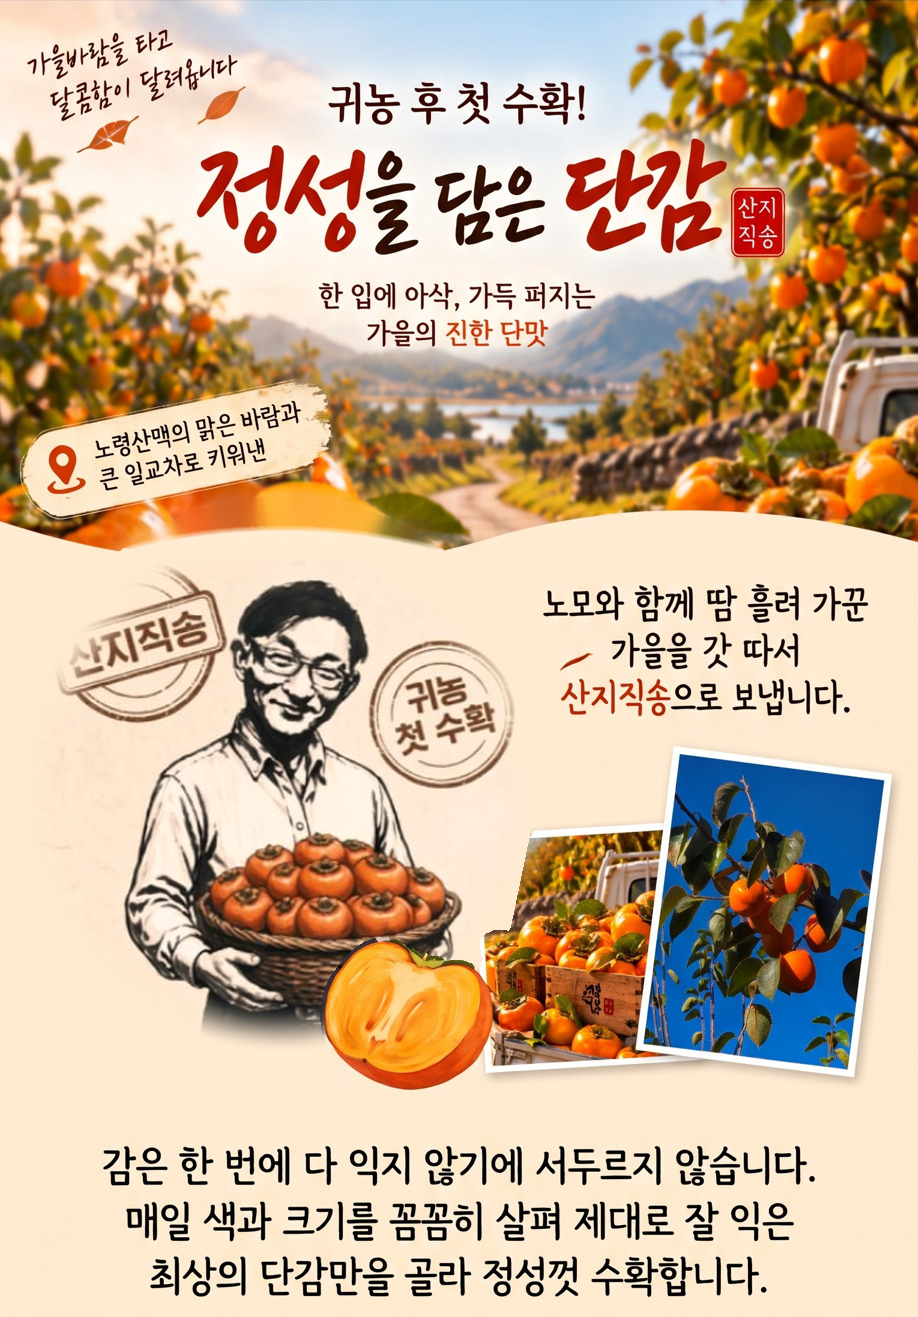
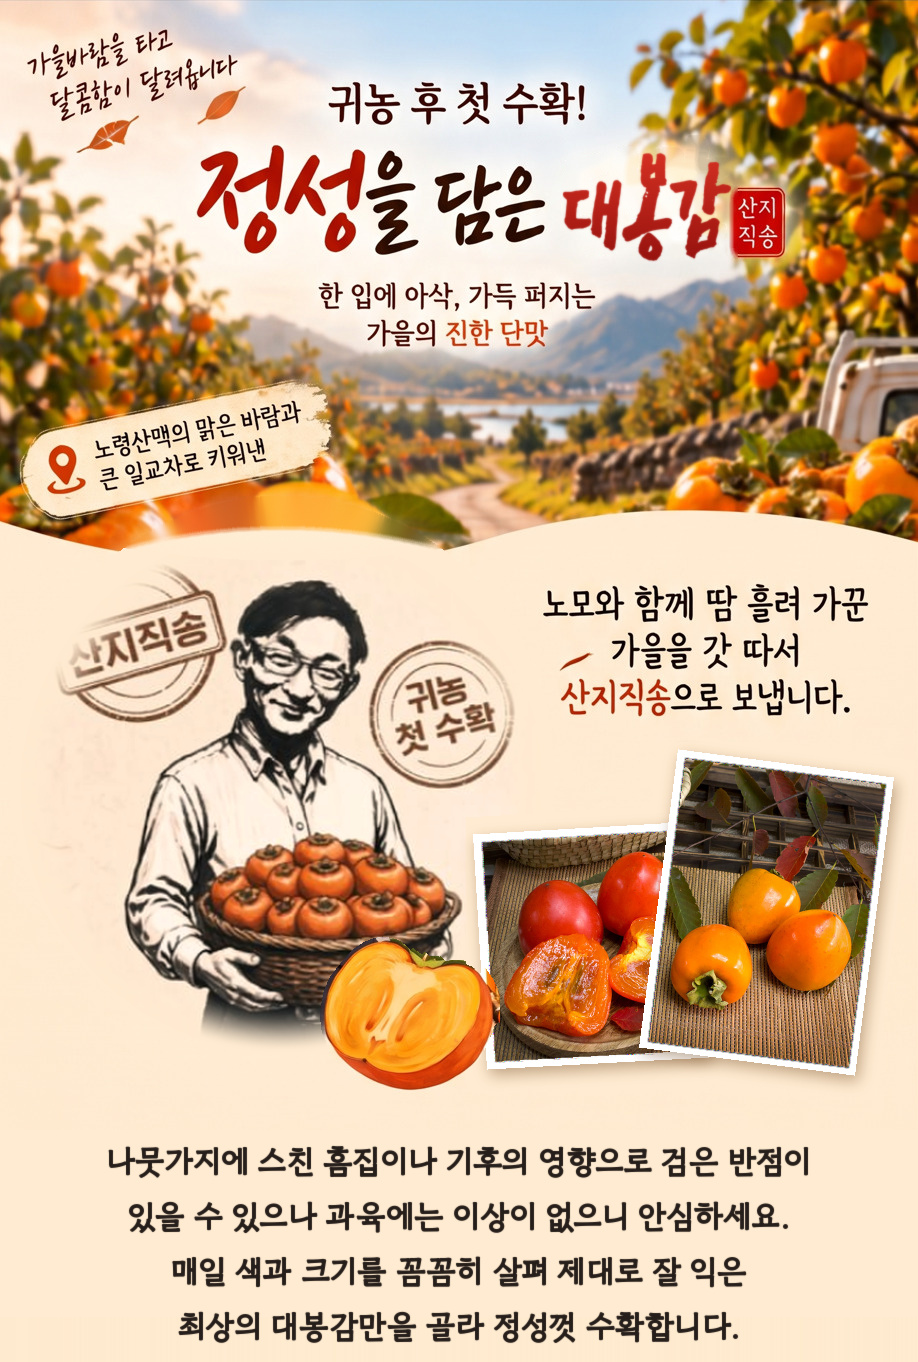
Add files via upload

diff --git a/index.html b/index.html
@@ -3,9 +3,9 @@
 <head>
 <meta charset="utf-8">
 <meta name="viewport" content="width=device-width, initial-scale=1">
-<title>귀농 후 첫 수확 산지직송 단감 주문</title>
-<meta name="description" content="노령산맥 산지직송 단감. 특품 5kg, 상품 10kg, 보통 10kg 주문 · 입금 순서대로 배송">
-<meta property="og:title" content="귀농 후 첫 수확 산지직송 단감">
+<title>귀농 후 첫 수확 산지직송 단감·대봉감 주문</title>
+<meta name="description" content="노령산맥 산지직송 단감·대봉감. 대봉감 11.5kg, 단감 특품 5kg·상품 10kg·보통 10kg 주문 · 입금 순서대로 배송">
+<meta property="og:title" content="귀농 후 첫 수확 산지직송 단감·대봉감">
 <meta property="og:description" content="노령산맥의 맑은 바람과 큰 일교차로 키운 단감, 온라인 주문">
 <meta property="og:image" content="hero.jpg">
 <link rel="preconnect" href="https://fonts.googleapis.com">
@@ -69,6 +69,7 @@
   .price small{display:block;font-weight:500;color:var(--muted);font-size:12.5px}
   .left{font-size:13px;font-weight:700;color:var(--orange-d);margin-top:4px;min-height:1px}
   .left.low{color:var(--red)}
+  .prod[hidden]{display:none}
   .prod.soldout{opacity:.55;background:#f3ede0}
   .prod.soldout .left{color:#6b5a45}
   .soldout-banner{display:none;margin:0 0 14px;background:#fdecea;border:1px solid #f3b8b3;color:#8c1d18;border-radius:12px;padding:12px 14px;font-weight:700;font-size:14px}
@@ -311,6 +312,8 @@ const API_URL = 'https://script.google.com/macros/s/AKfycbxxqVAMqSJ-gJ_WL8ZMAB6y
 
 // 상품·가격은 Code.gs 의 PRODUCTS 와 반드시 같아야 합니다 (서버가 이 가격으로 다시 계산합니다).
 const PRODUCTS = [
+  { key:'dbdm',    name:'대봉감 대+중 혼과 11.5kg', tag:'', desc:'대과·중과 혼합 · 11.5kg', price:35000, ship:'택배비 포함' },
+  { key:'dbso',    name:'대봉감 소 11.5kg',         tag:'', desc:'소과 · 11.5kg',           price:29000, ship:'택배비 포함' },
   { key:'special', name:'특품 5kg', tag:'강추상품', desc:'특과 16~18과 · 팬캡 포장', price:38000, ship:'택배비 4,000원 포함' },
   { key:'grade',   name:'상품 10kg', tag:'', desc:'중과 58~60과 · 3단 포장',  price:34000, ship:'택배비 5,000원 포함' },
   { key:'normal',  name:'보통 10kg', tag:'', desc:'소과 · 막 포장',            price:19000, ship:'택배비 5,000원 포함' },
@@ -363,6 +366,7 @@ function applyStock(){
     const out = (typeof s === 'number') && s <= 0;
     if(!out) allOut = false;
     if(qty[k] > limitOf(k)) qty[k] = limitOf(k);
+    el.hidden = out;                       // 재고 0 상품은 상품 선택에서 아예 보이지 않게 함
     el.classList.toggle('soldout', out);
     el.querySelector('input').max = limitOf(k);
     el.querySelectorAll('button').forEach(b => b.disabled = out);
